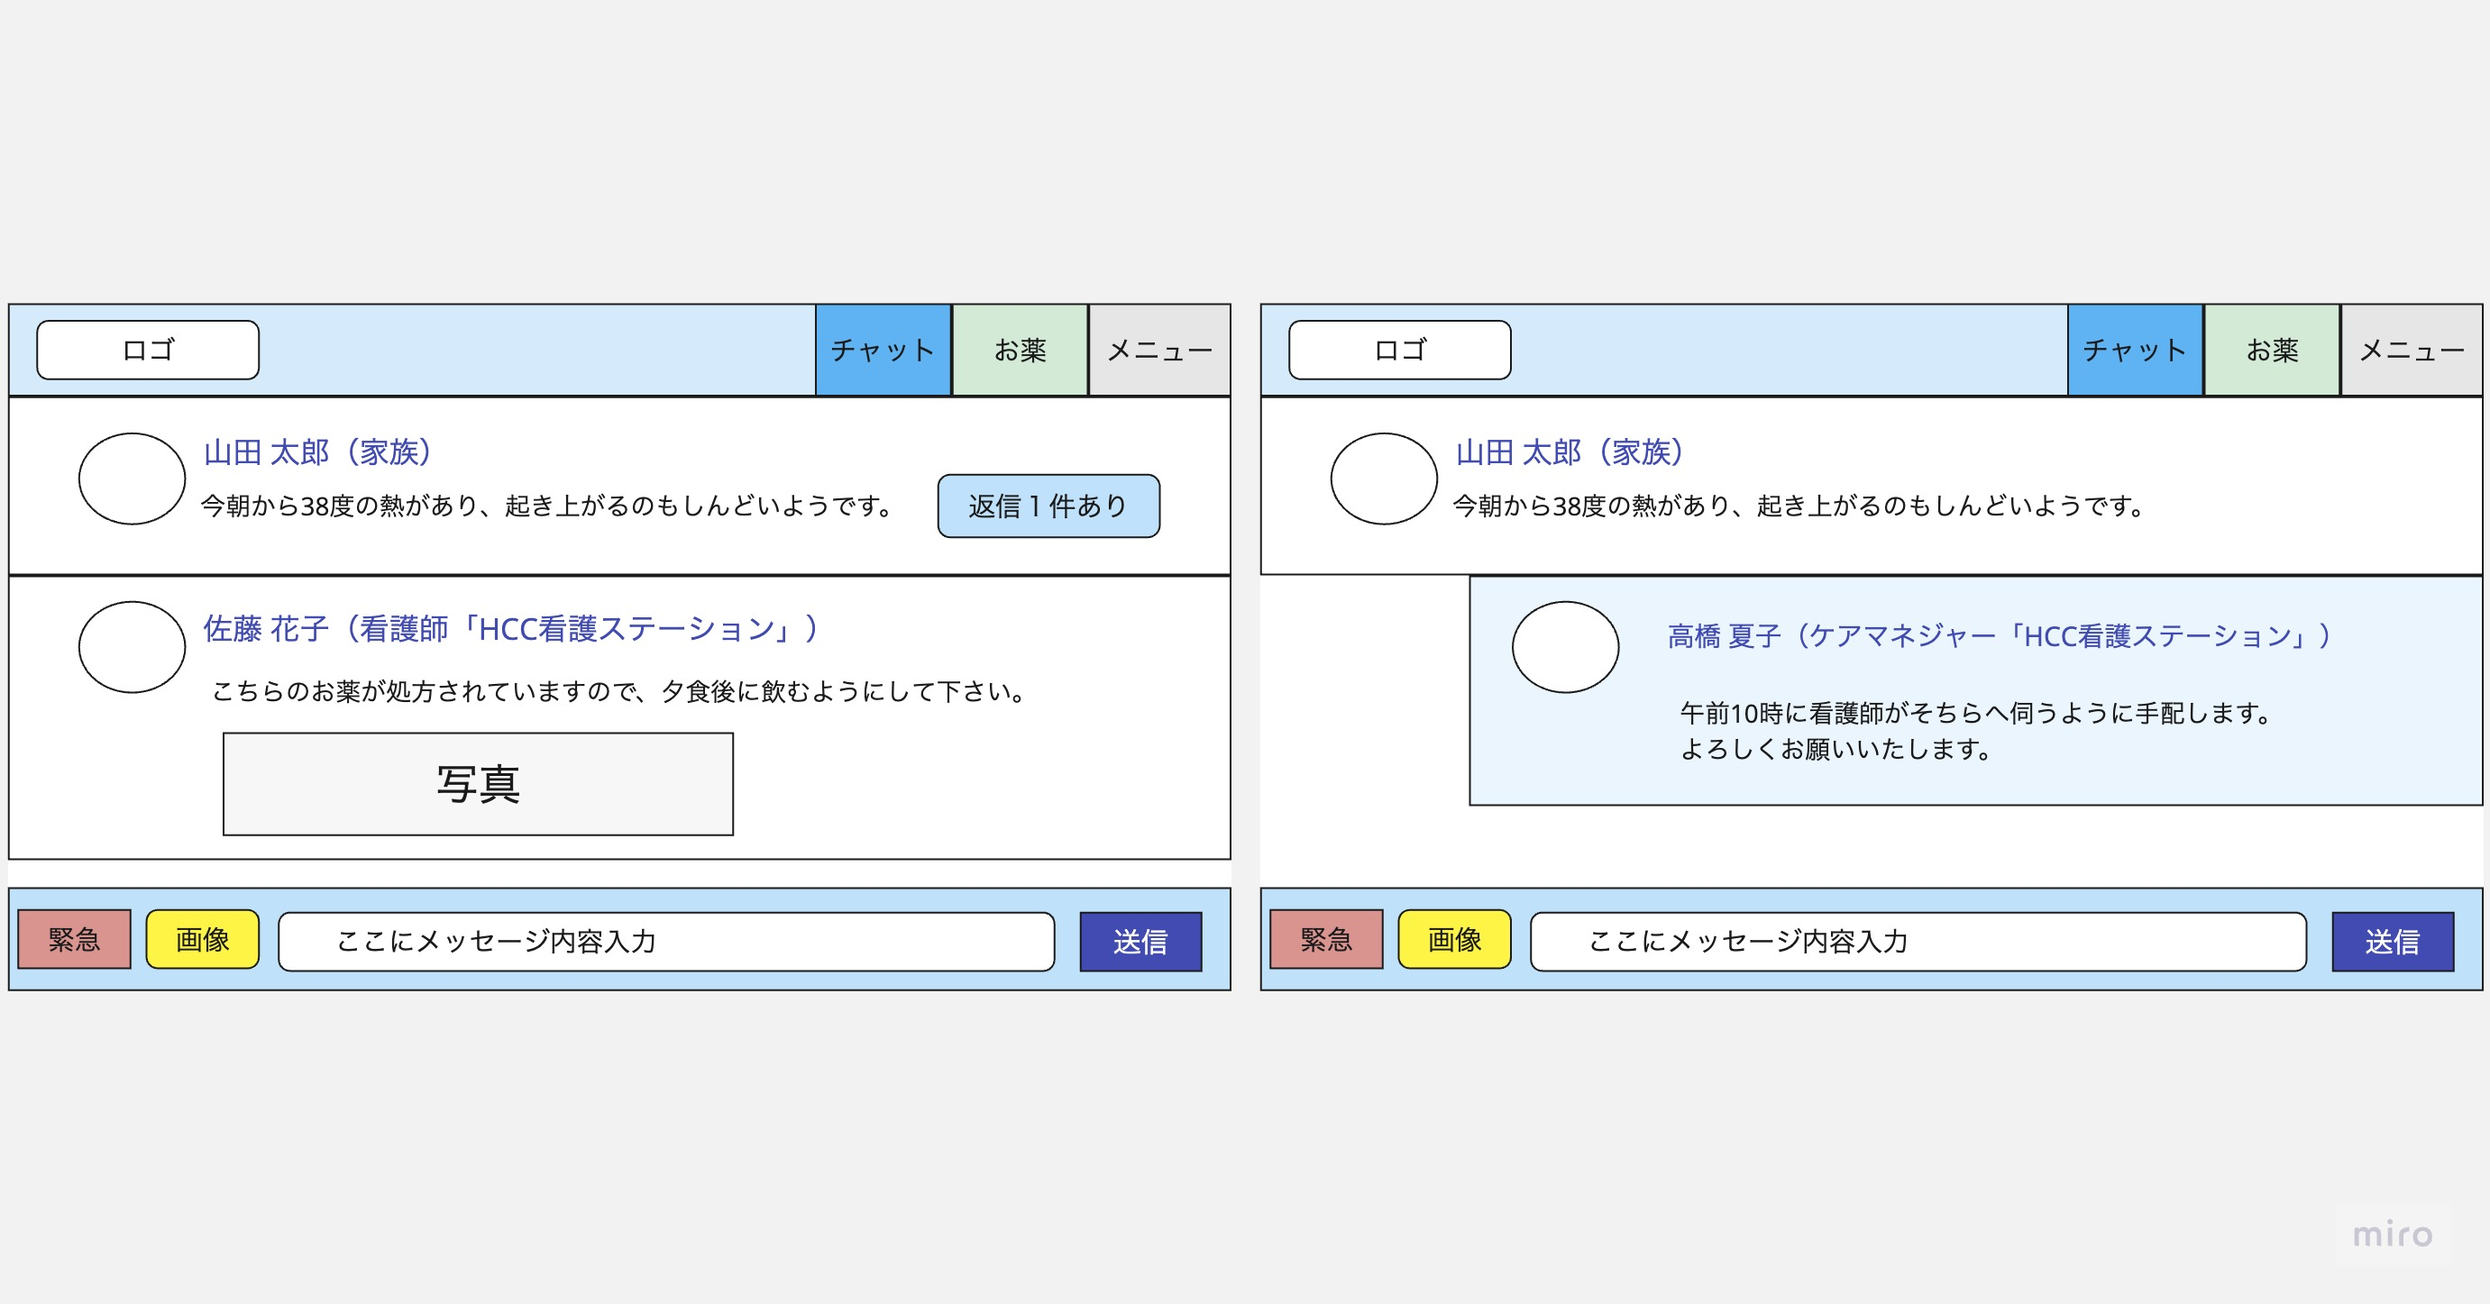
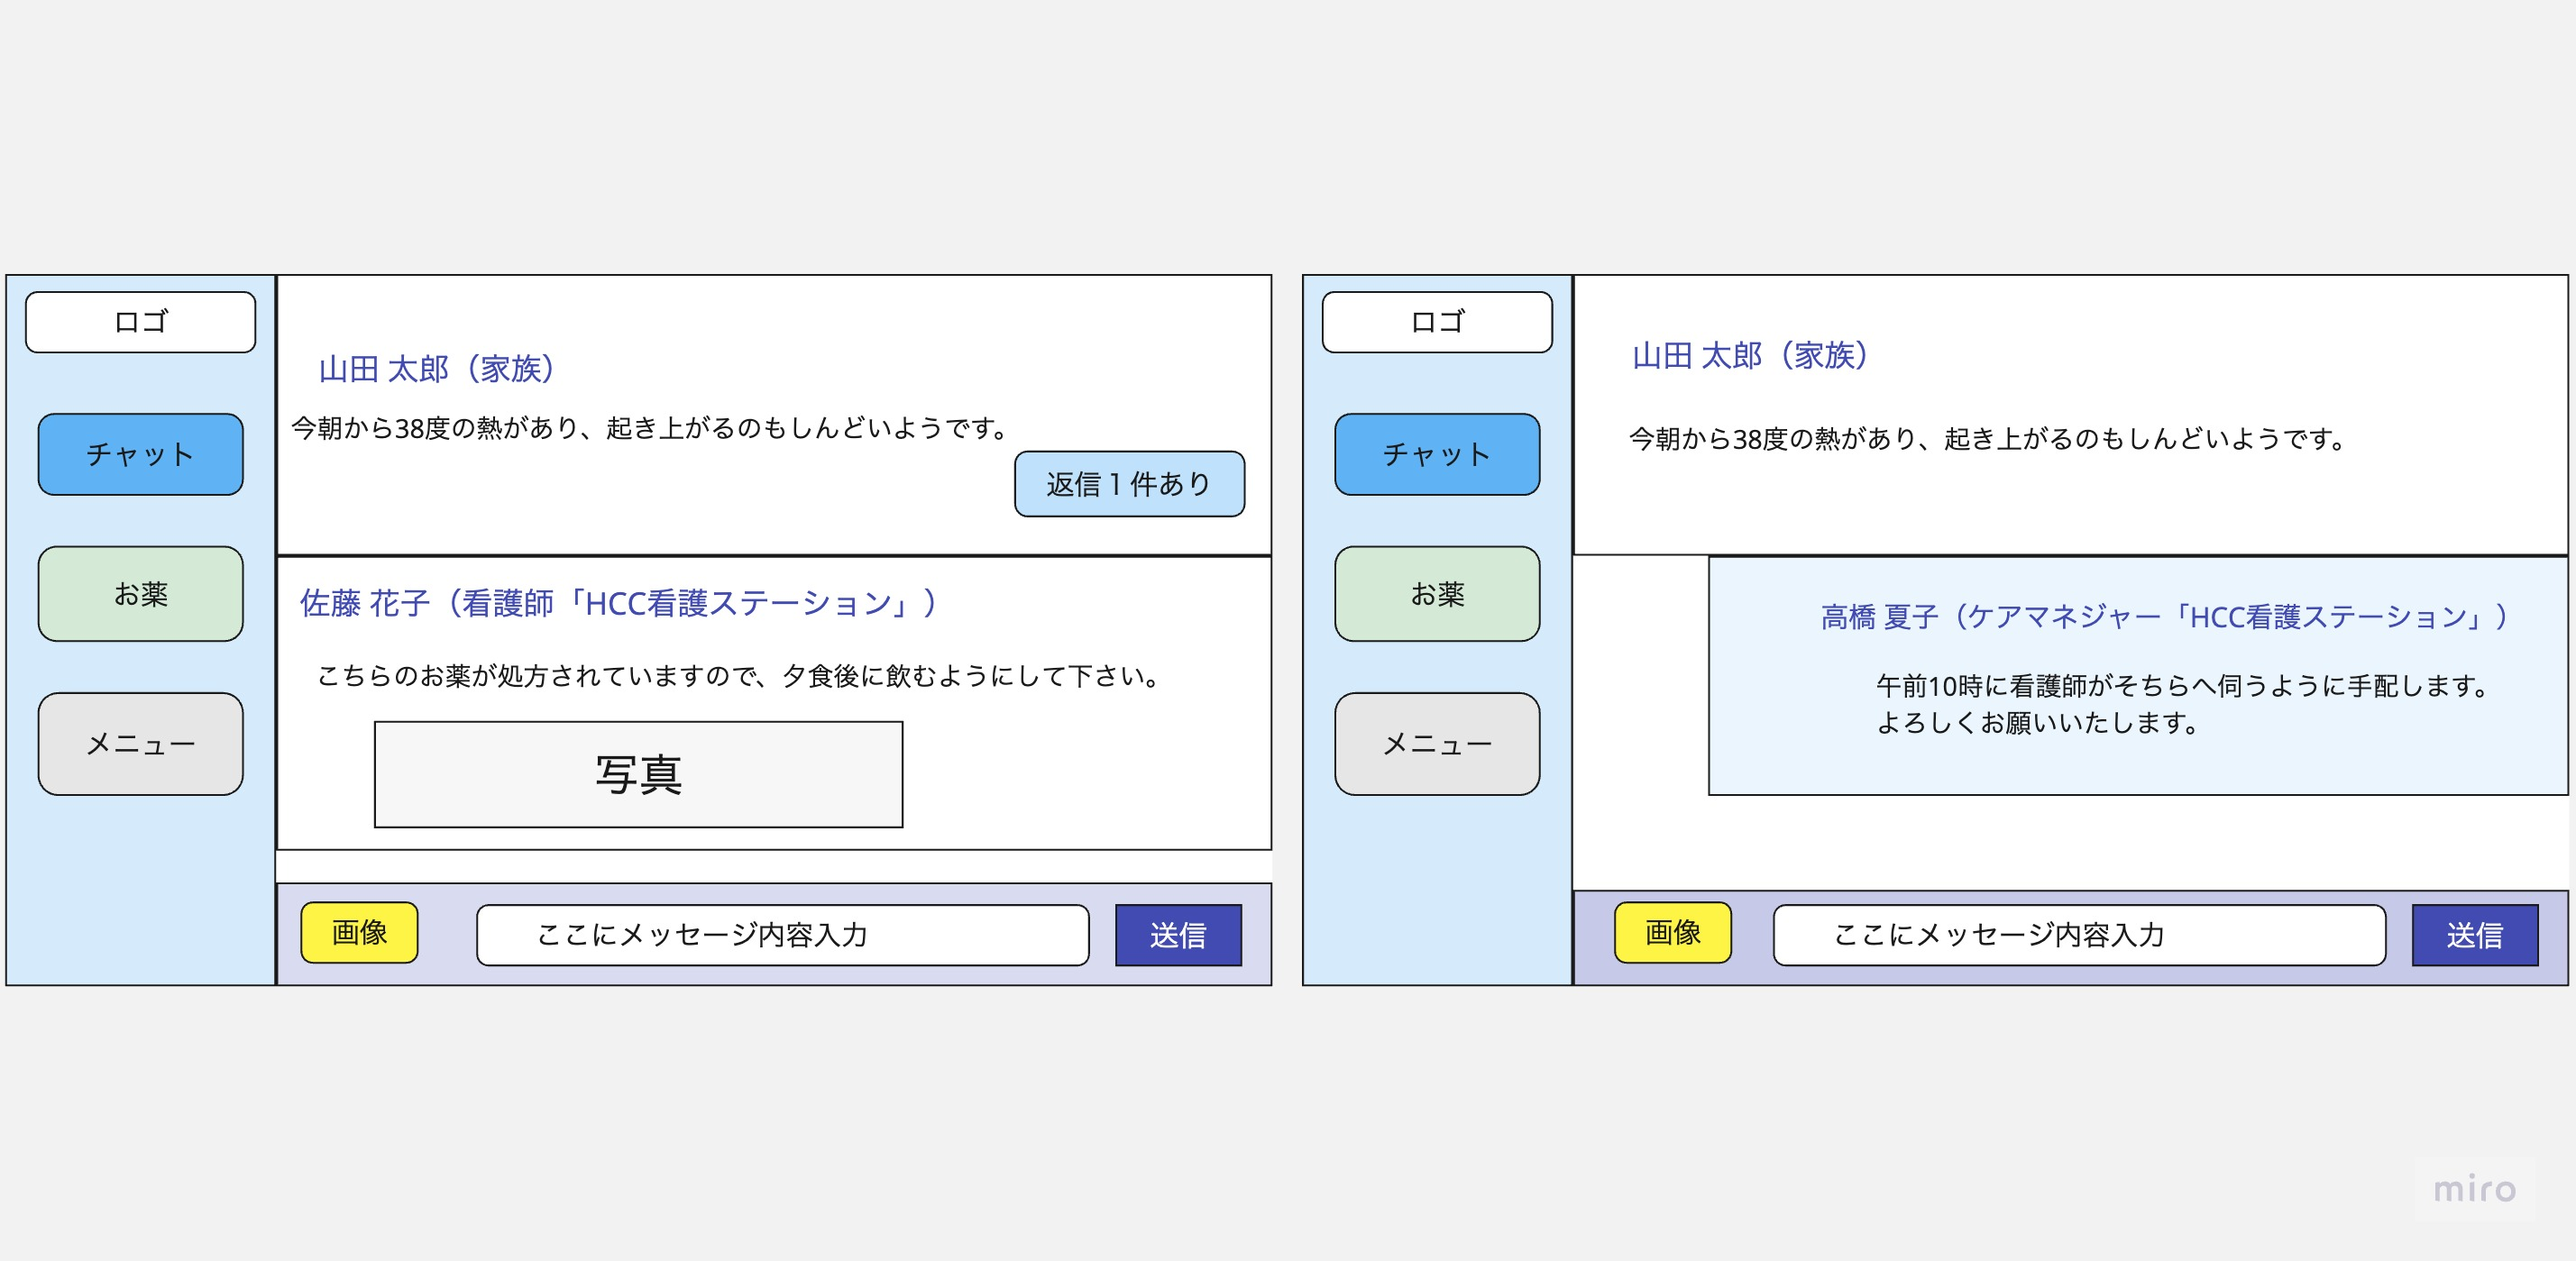
Update after feedback0713

Changed region(s): [[0.0, 0.2152, 1.0, 0.7991]]

diff --git a/docs/documentation.md b/docs/documentation.md
@@ -82,8 +82,7 @@ HomeCareConnect（在宅療養者における情報共有サービス）
   - 薬の種類、服用時間、量などを登録し、リマインダー機能で服用時間になると通知が届くようにします。
   - 服用確認のチェック機能をつけることで、服用されたことを確認できるようにします。
 - 非常時の対応
-  - チャット機能に通常の投稿フォームとは別に緊急連絡用の投稿フォームを追加します。
-  - このフォームから投稿された内容は、各ユーザーの通知設定がオフであっても、必ず全ての関係者に通知が届くように設定します。
+  - 非常時にはまず電話で対応することになると思いますが、電話が繋がらない場合も想定し、チャットを通じて緊急時にも情報を迅速に共有し、適切な対応が可能になるようにします。
 - 負担の偏り
   - チャット機能を用いた適切な情報共有と調整によって、ケアタスクを分散し、全員が参加するようなケア体制を作ります。
 
@@ -96,33 +95,30 @@ HomeCareConnect（在宅療養者における情報共有サービス）
 
 - 認証機能
   - ユーザー登録
-    - ユーザーID、パスワード、名前、職種名、合言葉が登録できる。
+    - ユーザーID、パスワード、名前、メールアドレス、施設名、職種名が登録できる。
+    - ログイン中のユーザーが別のユーザーを登録できる。
+    - 患者家族の一人が始めにユーザー登録し、参加してほしい人をユーザー登録し、IDとパスワードを伝える形式を取る。
   - ログイン
     - ユーザーID、パスワードを入力し、ログインできる。
   - ログアウト
     - メニュー画面より選択し、ログアウトできる。
   - ユーザーID,パスワード以外でのログイン
-    - ユーザーID、パスワードを忘れた場合は、名前と誕生日と合言葉の入力でログインできる。
+    - ユーザーID、パスワードを忘れた場合は、メールアドレスより取得できる。
 
 - チャット機能
   - リアルタイムでメッセージができる。
   - 通知を設定できる。
-  - 緊急用の投稿フォームより緊急の連絡ができる。
   - スレッド機能
   - スタンプやリアクション機能
 
 - お薬管理機能
   - 薬の登録、確認、更新、削除できる。
-    - 薬の名前、時間、服用する量、メモ
+    - 薬の名前、時間、服用する量、期間、メモ
   - 服用リマインダー
     - 登録した薬の服用時間から１時間過ぎても服用チェックされていなかったら、通知が送られる。
   - 服用チェック
     - 薬を服用したことを確認できるチェック機能
     - 間違えてチェックしたときのために取り消し機能
-
-- 患者登録・管理機能
-  - 医療介護従事者が在宅療養者を登録、管理、更新、削除できる。
-  - 担当している在宅療養者をリスト表示できる。
 
 
 </details>
@@ -158,11 +154,7 @@ HomeCareConnect（在宅療養者における情報共有サービス）
   <details>
   <summary><h4>認証機能</h4></summary>
 
-  <strong>・認証機能（医療介護従事者・患者本人）</strong>
-  ![認証機能](./img/workflow_diagram/login_staff_patient.jpg)
-
-  <strong>・認証機能（患者家族）</strong>
-  ![認証機能](./img/workflow_diagram/login_family.jpg)
+  ![認証機能](./img/workflow_diagram/login_user.jpg)
 
   </details>
 
@@ -178,7 +170,7 @@ HomeCareConnect（在宅療養者における情報共有サービス）
 <details>
 <summary><h3>画面遷移図</h3></summary>
 
-![画面遷移図](./img/screen_transition_diagram/screen_transition_diagram2.jpg)
+![画面遷移図](./img/screen_transition_diagram/screen_transition_diagram3.jpg)
 
 </details>
 
@@ -186,44 +178,32 @@ HomeCareConnect（在宅療養者における情報共有サービス）
 <summary><h3>ワイヤーフレーム</h3></summary>
 
   <details>
-  <summary><h4>ユーザー登録、ログイン機能（患者側）</h4></summary>
+  <summary><h4>ユーザー登録、ログイン機能</h4></summary>
 
-  ![ユーザー登録、ログイン機能（患者側）](./img/wire_frame/login_patient.jpg)
-
-  </details>
-
-  <details>
-  <summary><h4>ユーザー登録、ログイン機能（医療介護側）</h4></summary>
-
-  ![ユーザー登録、ログイン機能（医療介護側）](./img/wire_frame/login_staff.jpg)
+  ![ユーザー登録、ログイン機能](./img/wire_frame/login_user.jpeg)
 
   </details>
 
   <details>
-  <summary><h4>患者登録、患者リスト機能（医療介護側のみ）</h4></summary>
-
-  ![患者登録、患者リスト機能](./img/wire_frame/list_patient.jpeg)
-
-  </details>
-
-  <details>
-  <summary><h4>チャット機能（共通）</h4></summary>
+  <summary><h4>チャット機能</h4></summary>
 
   ![チャット機能](./img/wire_frame/chat_function.jpeg)
 
   </details>
 
   <details>
-  <summary><h4>お薬管理機能（共通）</h4></summary>
+  <summary><h4>お薬管理機能</h4></summary>
 
   ![お薬管理機能](./img/wire_frame/medication_management.jpeg)
 
   </details>
 
   <details>
-  <summary><h4>メニュー機能（共通）</h4></summary>
+  <summary><h4>メニュー機能</h4></summary>
 
-  ![メニュー機能](./img/wire_frame/menu_list.jpeg)
+  ![メニュー機能1](./img/wire_frame/menu_list1.jpeg)
+  ![メニュー機能2](./img/wire_frame/menu_list2.jpeg)
+
 
   </details>
 
